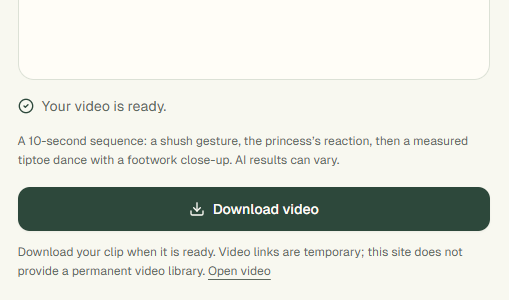
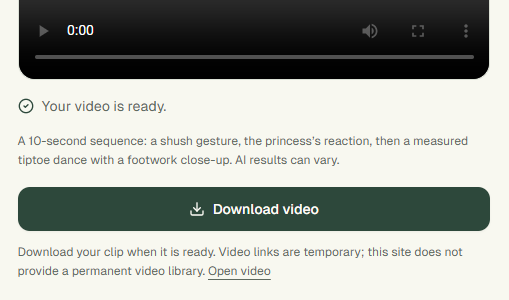
优化

Changed region(s): [[0.0295, 0.0, 0.9725, 0.27]]

diff --git a/tinyship-2.7.0/apps/tanstack-app/src/components/dance-maker.tsx b/tinyship-2.7.0/apps/tanstack-app/src/components/dance-maker.tsx
@@ -34,11 +34,6 @@ export interface DanceMakerCopy {
   princessPreviewAlt: string
   defaultPrincessAlt: string
   defaultPrincessLabel: string
-  sceneLabel: string
-  sceneHint: string
-  sceneAlt: string
-  costumeLabel: string
-  costumeHint: string
   generateButton: string
   retryGenerate: string
   retryStatus: string
@@ -369,7 +364,7 @@ export function DanceMaker({ copy, isAvailable = true, className = '', returnTo 
         <div className="space-y-3">
           <label htmlFor={`${id}-princess`} className="block text-base font-semibold">{copy.princessLabel}</label>
           <div className="flex flex-col items-center gap-4 rounded-2xl border bg-muted/35 p-4 sm:flex-row">
-            <img src={princessPreviewUrl ?? '/images/references/princess-default.png'} alt={princessPreviewUrl ? copy.princessPreviewAlt : copy.defaultPrincessAlt} width={300} height={300} className="h-28 w-28 shrink-0 rounded-xl object-cover" />
+            <img src={princessPreviewUrl ?? '/images/references/princess-default-v2.png'} alt={princessPreviewUrl ? copy.princessPreviewAlt : copy.defaultPrincessAlt} width={300} height={300} className="h-28 w-28 shrink-0 rounded-xl object-cover" />
             <div className="min-w-0 space-y-2 text-center sm:text-left">
               <p className="truncate text-sm text-muted-foreground">{princessPhoto?.name ?? copy.defaultPrincessLabel}</p>
               <Button type="button" variant="outline" onClick={() => princessInputRef.current?.click()} disabled={referencesLocked}>
@@ -380,18 +375,6 @@ export function DanceMaker({ copy, isAvailable = true, className = '', returnTo 
             </div>
           </div>
           <p id={`${id}-princess-hint`} className="text-sm leading-relaxed text-muted-foreground">{copy.princessHint}</p>
-        </div>
-
-        <div className="space-y-3 rounded-2xl border p-4">
-          <p className="text-base font-semibold">{copy.sceneLabel}</p>
-          <div className="flex flex-col items-start gap-3 sm:flex-row">
-            <img src="/images/references/barn-scene.png" alt={copy.sceneAlt} width={1672} height={941} className="aspect-video w-full shrink-0 rounded-xl object-cover sm:w-40" />
-            <p className="text-sm leading-relaxed text-muted-foreground">{copy.sceneHint}</p>
-          </div>
-          <div className="space-y-1 border-t pt-3">
-            <p className="text-sm font-semibold">{copy.costumeLabel}</p>
-            <p className="text-sm leading-relaxed text-muted-foreground">{copy.costumeHint}</p>
-          </div>
         </div>
 
         <div className="space-y-3">
@@ -413,9 +396,9 @@ export function DanceMaker({ copy, isAvailable = true, className = '', returnTo 
 
       <div className="flex flex-col gap-4 border-t bg-muted/30 p-5 sm:p-8 lg:border-l lg:border-t-0">
         <p className="text-base font-semibold">{copy.resultTitle}</p>
-        <div className="relative flex min-h-72 flex-1 items-center justify-center overflow-hidden rounded-2xl border bg-background p-4 sm:min-h-96" aria-busy={isWorking}>
+        <div className="relative flex aspect-video w-full shrink-0 items-center justify-center overflow-hidden rounded-2xl border bg-background p-4" aria-busy={isWorking}>
           {result ? (
-            <video src={result.videoUrl} poster={result.coverImageUrl} controls playsInline preload="metadata" aria-label={copy.videoLabel} className="max-h-[34rem] w-full rounded-lg object-contain">{copy.videoUnsupported}</video>
+            <video src={result.videoUrl} poster={result.coverImageUrl} controls playsInline preload="metadata" aria-label={copy.videoLabel} className="absolute inset-0 h-full w-full rounded-2xl object-contain">{copy.videoUnsupported}</video>
           ) : (
             <div className="flex max-w-xs flex-col items-center gap-4 text-center">
               {isWorking ? <LoaderCircle aria-hidden="true" className="h-9 w-9 animate-spin text-primary" /> : <Film aria-hidden="true" className="h-10 w-10 text-muted-foreground/45" />}

diff --git a/tinyship-2.7.0/apps/tanstack-app/src/lib/home-copy.ts b/tinyship-2.7.0/apps/tanstack-app/src/lib/home-copy.ts
@@ -23,11 +23,6 @@ export const homeCopy = {
     princessPreviewAlt: 'Preview of your selected princess character photo',
     defaultPrincessAlt: 'Default blonde princess character reference',
     defaultPrincessLabel: 'Default princess included',
-    sceneLabel: 'Your dance setting',
-    sceneHint: 'This compact straw corner is the fixed setting. The dancer signals shush, the princess reacts in fear, then the dance begins with a footwork close-up.',
-    sceneAlt: 'Fixed vintage barn reference with a straw-covered floor and hay wall',
-    costumeLabel: 'Reference outfits',
-    costumeHint: 'The video uses both reference outfits. Small details may change during AI generation.',
     generateButton: 'Generate video',
     retryGenerate: 'Try generating again',
     retryStatus: 'Check video status',
@@ -84,26 +79,26 @@ export const homeCopy = {
       {
         title: 'Upload your dancer',
         body: 'Choose a clear photo of one person with the face and body visible; no account is required.',
-        image: '/images/dance/step-upload.svg',
-        alt: 'Illustration of a portrait photo being added to the upload area',
+        image: '/images/dance/step-upload.png',
+        alt: 'AI-generated tutorial illustration of a full-body dancer photo with an upload arrow',
       },
       {
         title: 'Choose your princess',
         body: 'Keep the included princess or add a separate photo of one person; the straw corner is already selected.',
-        image: '/images/dance/step-cast.svg',
-        alt: 'Illustration of separate dancer and princess photo references for the two roles',
+        image: '/images/dance/step-cast.png',
+        alt: 'AI-generated tutorial illustration of separate dancer and princess reference photos',
       },
       {
         title: 'Generate your video',
         body: 'Confirm photo permission, select Generate video, and keep the page open while it renders.',
-        image: '/images/dance/step-generate.svg',
-        alt: 'Illustration of a photo becoming a dance video with a generation progress bar',
+        image: '/images/dance/step-generate.png',
+        alt: 'AI-generated tutorial illustration of a straw-corner dance scene with a rendering progress bar',
       },
       {
         title: 'Download and share',
         body: 'Preview the finished clip, then download it to share with your friends.',
-        image: '/images/dance/step-download.svg',
-        alt: 'Illustration of a finished dance clip with a download button',
+        image: '/images/dance/step-download.png',
+        alt: 'AI-generated tutorial illustration of a dance clip on a phone with a download arrow',
       },
     ],
   },

diff --git a/tinyship-2.7.0/tests/unit/ai/dance-maker-ssr.test.ts b/tinyship-2.7.0/tests/unit/ai/dance-maker-ssr.test.ts
@@ -5,15 +5,16 @@ import { DanceMaker } from '../../../apps/tanstack-app/src/components/dance-make
 import { homeCopy } from '../../../apps/tanstack-app/src/lib/home-copy'
 
 describe('dance maker initial server render', () => {
-  test('renders both character inputs, fixed references and download copy before any client effect', () => {
+  test('renders both character inputs and download copy without the removed setting panel', () => {
     const html = renderToStaticMarkup(createElement(DanceMaker, { copy: homeCopy.tool }))
-    for (const label of [homeCopy.tool.photoLabel, homeCopy.tool.photoHint, homeCopy.tool.choosePhoto, homeCopy.tool.princessLabel, homeCopy.tool.princessHint, homeCopy.tool.choosePrincess, homeCopy.tool.defaultPrincessLabel, homeCopy.tool.sceneLabel, homeCopy.tool.sceneHint, homeCopy.tool.costumeLabel, homeCopy.tool.costumeHint, homeCopy.tool.generateButton, homeCopy.tool.resultTitle, homeCopy.tool.downloadButton, homeCopy.tool.downloadHint, homeCopy.tool.progressHint, homeCopy.tool.fidelityHint, homeCopy.tool.signInHint]) {
+    for (const label of [homeCopy.tool.photoLabel, homeCopy.tool.photoHint, homeCopy.tool.choosePhoto, homeCopy.tool.princessLabel, homeCopy.tool.princessHint, homeCopy.tool.choosePrincess, homeCopy.tool.defaultPrincessLabel, homeCopy.tool.generateButton, homeCopy.tool.resultTitle, homeCopy.tool.downloadButton, homeCopy.tool.downloadHint, homeCopy.tool.progressHint, homeCopy.tool.fidelityHint, homeCopy.tool.signInHint]) {
       expect(html).toContain(label)
     }
     expect(html.match(/type="file"/g)).toHaveLength(2)
     expect(html.match(/aria-required="true"/g)).toHaveLength(1)
-    expect(html).toContain('src="/images/references/princess-default.png"')
-    expect(html).toContain('src="/images/references/barn-scene.png"')
+    expect(html).toContain('src="/images/references/princess-default-v2.png"')
+    expect(html).not.toContain('src="/images/references/barn-scene.png"')
+    expect(html).not.toContain('Your dance setting')
     expect(html).not.toContain('type="radio"')
     expect(html).not.toMatch(/<h[12][\s>]/)
     expect(html).not.toContain('<video')

diff --git a/tinyship-2.7.0/apps/tanstack-app/src/lib/tutorial-copy.ts b/tinyship-2.7.0/apps/tanstack-app/src/lib/tutorial-copy.ts
@@ -23,15 +23,15 @@ export const tutorialCopy = {
       id: 'choose-dance',
       heading: '2. Use the included dance template',
       paragraphs: [
-        'Under "Your dance setting", the straw corner and five-shot dance sequence are already selected; this maker currently has one dance preset.',
+        'The maker uses one preset: a 10-second dance in a straw corner. The background and dance sequence are already selected.',
         'Keep "Default princess included", or click "Choose princess photo" to replace her with a second JPG, PNG, or WebP file up to 10 MB.',
         'The template asks the model to keep both characters\' reference outfits and use the fixed straw background.',
       ],
       image: '/images/tutorial/02-dance-setting.png',
       width: 549,
-      height: 551,
-      alt: 'Maker screenshot showing the optional princess photo, Choose princess photo button and fixed straw-corner dance setting',
-      caption: 'The included princess and fixed dance setting. You can replace the princess photo.',
+      height: 300,
+      alt: 'Maker screenshot showing the included princess, Choose princess photo button and optional photo upload instructions',
+      caption: 'Keep the included princess or replace her with your own photo.',
     },
     {
       id: 'generate-video',
@@ -42,9 +42,9 @@ export const tutorialCopy = {
         'The finished preview appears under "Your dance video" when the job completes.',
       ],
       image: '/images/tutorial/03-generate-video.png',
-      width: 1090,
+      width: 553,
       height: 300,
-      alt: 'Maker screenshot of the Generate video button and Generating your dance video status in a sample processing state',
+      alt: 'Maker screenshot showing photo permission and the Generate video button during a sample generation',
       caption: 'Generation controls in a sample processing state. This UI screenshot does not show a generated result.',
     },
     {

diff --git a/tinyship-2.7.0/apps/tanstack-app/src/components/home-content.tsx b/tinyship-2.7.0/apps/tanstack-app/src/components/home-content.tsx
@@ -21,7 +21,7 @@ export function HomeContent({ relatedTools = moreAiVideoTools }: HomeContentProp
         <ol className="step-grid">
           {homeCopy.how.steps.map((step, index) => (
             <li className="step-card" key={step.title}>
-              <img src={step.image} alt={step.alt} width={640} height={400} loading="lazy" decoding="async" />
+              <img src={step.image} alt={step.alt} width={960} height={640} loading="lazy" decoding="async" />
               <div className="step-copy">
                 <h3><span className="step-number" aria-hidden="true">{index + 1}</span>{step.title}</h3>
                 <p>{step.body}</p>

diff --git a/tinyship-2.7.0/tests/unit/ai/dance-template.test.ts b/tinyship-2.7.0/tests/unit/ai/dance-template.test.ts
@@ -9,7 +9,7 @@ describe('three-image dance template', () => {
     const options = createDanceVideoOptions({ danceTemplate: 'rumpelstiltskin-v2', dancerImageUrl }, `${publicUrl}/`)
     expect(options.referenceImageUrls).toEqual([
       dancerImageUrl,
-      `${publicUrl}/references/rumpelstiltskin-v2/princess-default.png`,
+      `${publicUrl}/references/rumpelstiltskin-v2/princess-default-v2.png`,
       `${publicUrl}/references/rumpelstiltskin-v2/barn-scene.png`,
     ])
     expect(options).toMatchObject({ provider: 'autodl', model: 'minimax-h3', duration: 10, size: '768p横' })

diff --git a/tinyship-2.7.0/apps/tanstack-app/src/lib/dance-examples.ts b/tinyship-2.7.0/apps/tanstack-app/src/lib/dance-examples.ts
@@ -13,7 +13,7 @@ export const danceExamples = {
     {
       title: 'Keep or replace the princess',
       body: 'This is a still character reference, not a playable preview. Keep the included princess or replace her by adding a photo of one person in the optional princess field.',
-      image: '/images/references/princess-default.png',
+      image: '/images/references/princess-default-v2.png',
       alt: 'Included blonde princess reference with a frightened expression and a hand near her mouth',
       kind: 'Included reference',
     },

diff --git a/tinyship-2.7.0/apps/tanstack-app/src/lib/dance-template.ts b/tinyship-2.7.0/apps/tanstack-app/src/lib/dance-template.ts
@@ -3,7 +3,7 @@ import { aiVideoConfig } from '../../../../config/aiVideo'
 import { RUMPELSTILTSKIN_DANCE_PROMPT } from './dance-prompt'
 
 export const DANCE_REFERENCE_KEYS = {
-  princess: 'references/rumpelstiltskin-v2/princess-default.png',
+  princess: 'references/rumpelstiltskin-v2/princess-default-v2.png',
   scene: 'references/rumpelstiltskin-v2/barn-scene.png',
 } as const
 

diff --git a/tinyship-2.7.0/tests/e2e/TEST-CATALOG.md b/tinyship-2.7.0/tests/e2e/TEST-CATALOG.md
@@ -1,5 +1,17 @@
 # E2E 测试流程目录
 
+## Default princess restoration (2026-10-14)
+
+Acceptance: preserve the existing princess identity and expression, improve clarity, remove player overlays, and use the same restored asset in the maker, public examples and AutoDL's default reference. Keep old files available for rollback; use a versioned URL to avoid stale browser/CDN caches.
+
+Verified: edited 1589x990 PNG inspected for retained identity and removed overlays. R2 public GET returned 200 with identical bytes/SHA-256 (test-results/princess-reference-r2.json). Typecheck, Cloudflare build, 8 existing maker/template unit tests and 7 homepage/maker E2E checks passed. Browser confirmed both preview/example images loaded the new version. Updated the tutorial screenshots with mocked generation, zero paid jobs. Page evidence: test-results/princess-reference-page.png; edit prompt: docs/implementation/princess-reference-edit.json.
+
+## Compact maker and generated tutorial art (2026-10-14)
+
+Acceptance: remove the display-only "Your dance setting" block from the shared maker; preserve photo inputs and generation/download controls; keep the player compact instead of stretching to the form height; serve four generated tutorial illustrations with alt text and SSR copy; align the tutorial instructions and screenshots with the remaining controls.
+
+Verified: TanStack typecheck and Cloudflare production build passed; 2 maker SSR tests and 10 homepage/maker/content-page E2E checks passed. Browser review confirmed the removed panel, a compact 16:9 player, all four generated 960x640 PNG illustrations loaded, and no horizontal overflow at 390px. Tutorial screenshots were recaptured with mocked generation (zero paid jobs). Evidence: test-results/homepage-tutorial-desktop.png, test-results/homepage-tutorial-mobile.png and test-results/stage4-tutorial-capture.json. Image prompts and saved paths: docs/implementation/homepage-tutorial-assets.json.
+
 ## Local preview R2 upload regression (2026-10-14)
 
 Acceptance: the proxy-aware local preview forwards a WebSocket upgrade and frames instead of sending them through ordinary fetch; a real anonymous upload reaches the configured R2 bucket and its returned image URL is readable; failed upload creates no video task and consumes no trial. Do not submit another paid video job during diagnosis. Keep the user's selected photos intact.

diff --git a/tinyship-2.7.0/docs/implementation/stage5-launch-checklist.md b/tinyship-2.7.0/docs/implementation/stage5-launch-checklist.md
@@ -17,7 +17,7 @@
 
 3. **确认 R2 并配置正式媒体域名。** 现有桶为 `rumpelstiltskin-ai-uploads`，绑定名 `R2_BUCKET`；当前公开地址为 `https://pub-7344a28ff09f475d9e99f883230bb927.r2.dev`。在 R2 → 该桶 → Settings → Custom Domains 连接一个媒体域名，再把 `wrangler.jsonc` 的 `R2_PUBLIC_URL` 改为其 HTTPS 地址。不要用 CNAME 直接指向 `r2.dev`。Cloudflare 将 `r2.dev` 定义为限流的开发地址，正式流量应使用自定义域名。[官方说明](https://developers.cloudflare.com/r2/buckets/public-buckets/)
 
-   验证两个固定对象在新地址下可访问：`references/rumpelstiltskin-v2/princess-default.png`、`references/rumpelstiltskin-v2/barn-scene.png`。这里的 R2 地址是公开对象地址，持有链接的人可以访问照片；按隐私页说明处理用户删除请求，不要把公开桶描述成私有存储。
+   验证两个固定对象在新地址下可访问：`references/rumpelstiltskin-v2/princess-default-v2.png`、`references/rumpelstiltskin-v2/barn-scene.png`。这里的 R2 地址是公开对象地址，持有链接的人可以访问照片；按隐私页说明处理用户删除请求，不要把公开桶描述成私有存储。
 
 4. **准备生产密钥。** 在 `apps/tanstack-app/.env.production.local` 中准备 `AUTODL_API_KEY` 和独立的生产 `BETTER_AUTH_SECRET`（至少 32 字符的随机值）。此文件受现有忽略规则保护，不要提交或贴到聊天里。不要把包含本地 URL 的 `.dev.vars` 整份当成生产配置；它也不会自动变成云端密钥。生产 `APP_BASE_URL`、`BETTER_AUTH_URL` 已在 `wrangler.jsonc` 设置为主域。
 

diff --git a/tinyship-2.7.0/docs/implementation/autodl-video.md b/tinyship-2.7.0/docs/implementation/autodl-video.md
@@ -246,3 +246,18 @@ Both previously absent keys returned HTTP 200 for public HEAD and GET after
 upload, with `Content-Type: image/png`. Downloaded bytes and SHA-256 hashes match
 the local originals exactly. This asset upload did not deploy or restart the
 website, create a bucket, modify secrets, or submit a paid video generation.
+
+### Restored default princess (14 October 2026)
+
+The current default is now `princess-default-v2.png`, restored with the built-in
+image editor from the original attachment. Facial identity, blonde hair, the
+frightened expression and hand pose were retained; player controls and the
+bottom playback gradient were removed. The original file remains for rollback.
+The maker, examples and AutoDL default reference now use this versioned filename.
+
+Public object: `https://pub-7344a28ff09f475d9e99f883230bb927.r2.dev/references/rumpelstiltskin-v2/princess-default-v2.png`.
+Dimensions: 1589 x 990; PNG size: 815573 bytes.
[1 lines of base64/hex data omitted]
+Public GET returned HTTP 200 and matched the local file byte for byte.
+Prompt and source: `docs/implementation/princess-reference-edit.json`.
+No paid video job was submitted.
